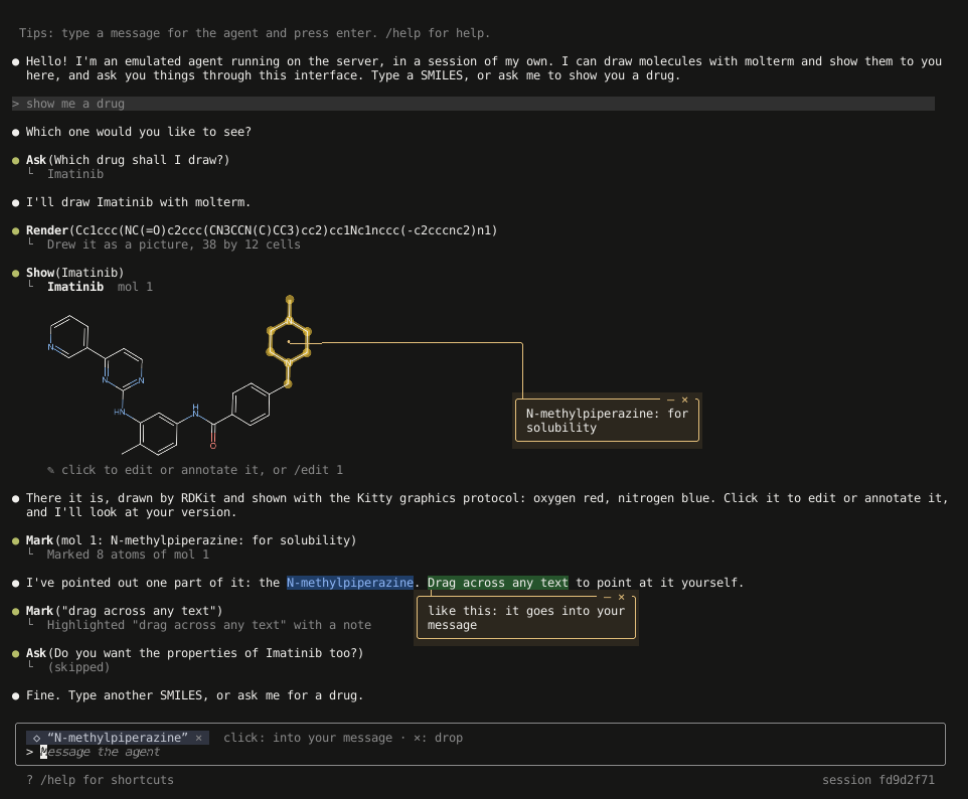
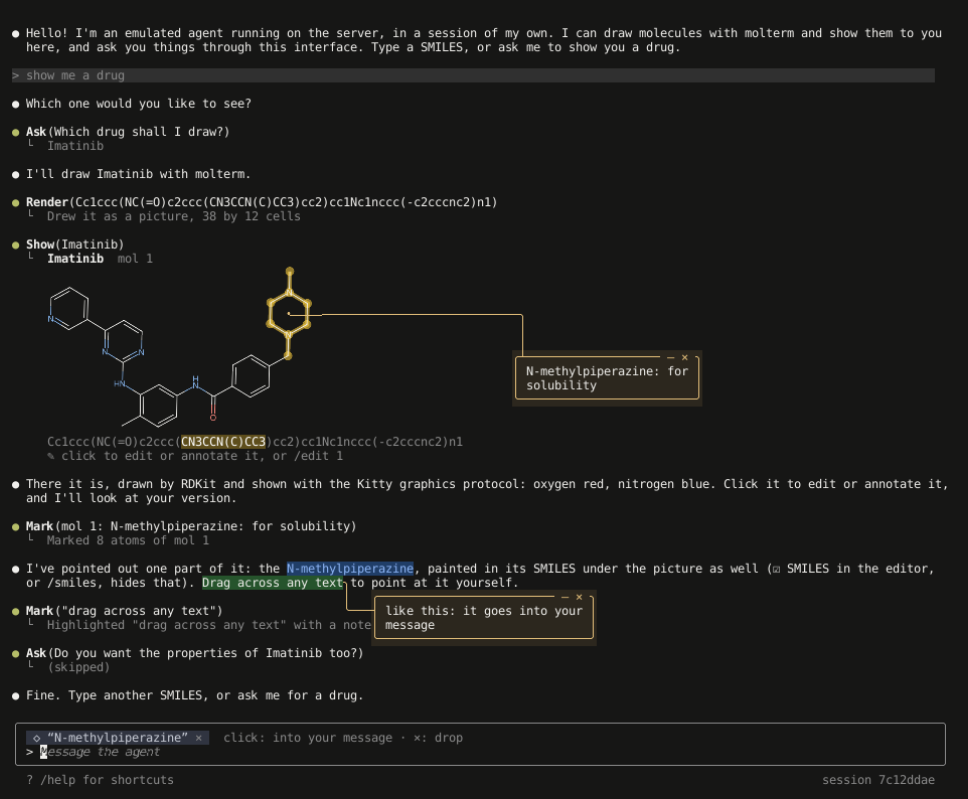
The agent's GIFs and shots taken again, and the README's hero shots; the editing demo highlights the atom it notes, painted in the SMILES, and hides and shows the SMILES with its checkbox

Changed region(s): [[0.0, 0.03, 0.9917, 0.811], [0.5269, 0.4205, 0.7128, 0.5407], [0.8988, 0.9612, 0.9607, 0.9912]]

diff --git a/docs/screenshots/agent_features.py b/docs/screenshots/agent_features.py
@@ -1,11 +1,13 @@
 """Record the agent's pointing and editing features, from the running dev agent: `make agent-gif` (with agent_gif.py).
 
-    docs/images/molterm-agent-annotate.gif  a molecule edited where it is shown: a note typed in its bubble on two lines, the drawing
-                                            made larger, Done, and the edit clicked into a message for the agent
+    docs/images/molterm-agent-annotate.gif  a molecule edited where it is shown: a note typed in its bubble on two lines, the atom
+                                            highlighted and painted in the SMILES under the drawing, the SMILES hidden and shown again
+                                            with its checkbox, the drawing made larger, Done, and the edit clicked into a message
     docs/images/molterm-agent-point.gif     pointing things out: a bubble dragged aside, text dragged across and highlighted from
                                             its menu, its context clicked into a message, and the agent marking it as seen
     docs/images/molterm-agent-inline.png    the inline editor, with its notes in bubbles beside the drawing
-    docs/images/molterm-agent-bubbles.png   the agent's marks: a highlighted part of the molecule, notes in bubbles, and a context
+    docs/images/molterm-agent-bubbles.png   the agent's marks: a highlighted part of the molecule, painted in its SMILES too, notes in
+                                            bubbles, and a context
 
 Each run starts a session, asks for imatinib and declines its properties, then records. The pointer positions are those of a
 1000 by 900 window, as agent_gif.py uses.
@@ -75,11 +77,11 @@ def annotate(p):
         pause(1.5)
         click(150, 385)                          # the picture: the editor, in place
         pause(3)
-        page.mouse.move(*at(217, 459), steps=10)  # the carbonyl oxygen
+        page.mouse.move(*at(217, 432), steps=10)  # the carbonyl oxygen
         pause(1)
-        click(217, 459, "right")
+        click(217, 432, "right")
         pause(1.5)
-        click(247, 695)                          # Note...
+        click(247, 667)                          # Note...
         pause(1)
         page.keyboard.type("carbonyl O", delay=70)  # typed in its bubble, at the end of its leader
         pause(0.4)
@@ -89,6 +91,14 @@ def annotate(p):
         page.keyboard.press("Enter")             # kept
         pause(3)
         shot(page, "molterm-agent-inline.png")
+        click(217, 432, "right")
+        pause(1.5)
+        click(247, 653)                          # Highlight: its O painted in the SMILES under the drawing
+        pause(2.5)
+        click(505, 272)                          # ☑ SMILES: hidden
+        pause(2)
+        click(505, 272)                          # and shown again
+        pause(2)
         page.keyboard.press("Alt+ArrowDown")     # a larger drawing, the transcript making room
         pause(2.5)
         page.keyboard.press("Alt+ArrowDown")
@@ -113,9 +123,9 @@ def point(p):
 
     def script():
         pause(1.5)
-        drag(430, 378, 600, 440)                 # the agent's bubble, out of the way
+        drag(430, 342, 600, 400)                 # the agent's bubble, out of the way
         pause(1.5)
-        drag(290, 597, 412, 597)                 # "N-methylpiperazine": handles, and a menu under them
+        drag(290, 582, 412, 582)                 # "N-methylpiperazine": handles, and a menu under them
         pause(2)
         page.keyboard.press("ArrowUp")           # its last item: Highlight
         pause(0.6)
